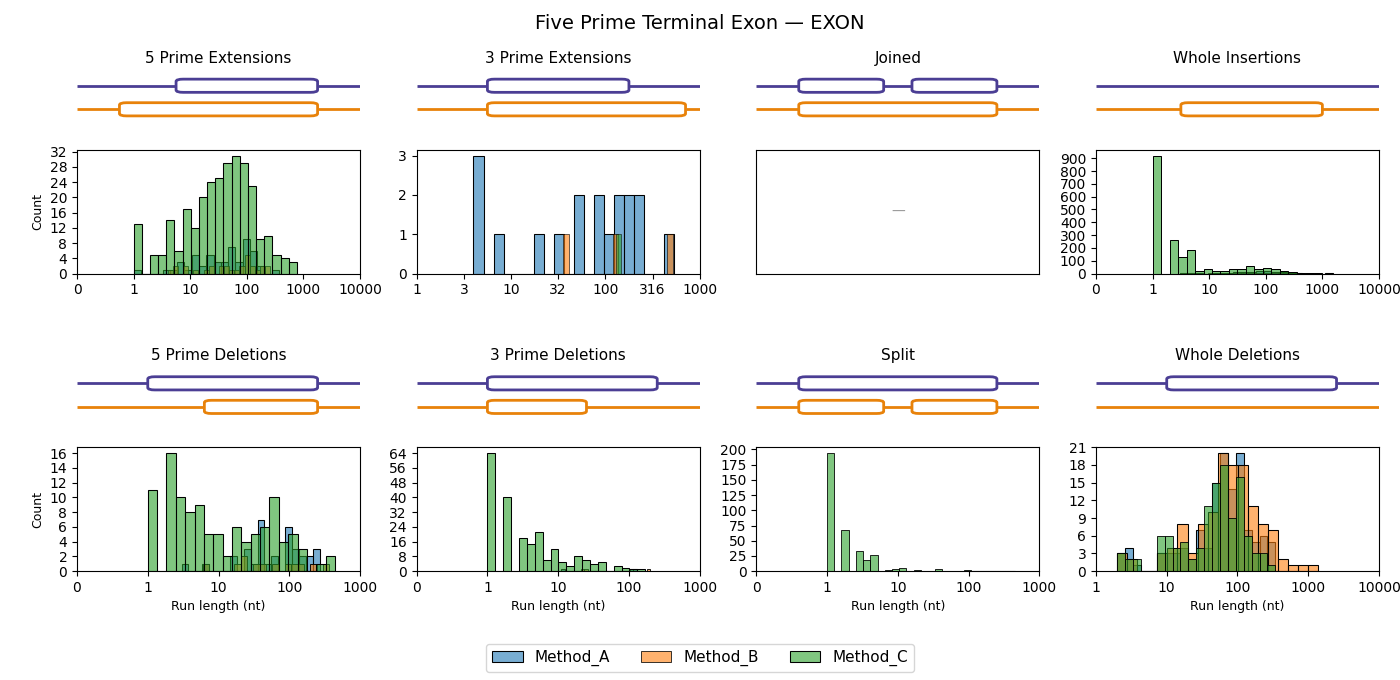
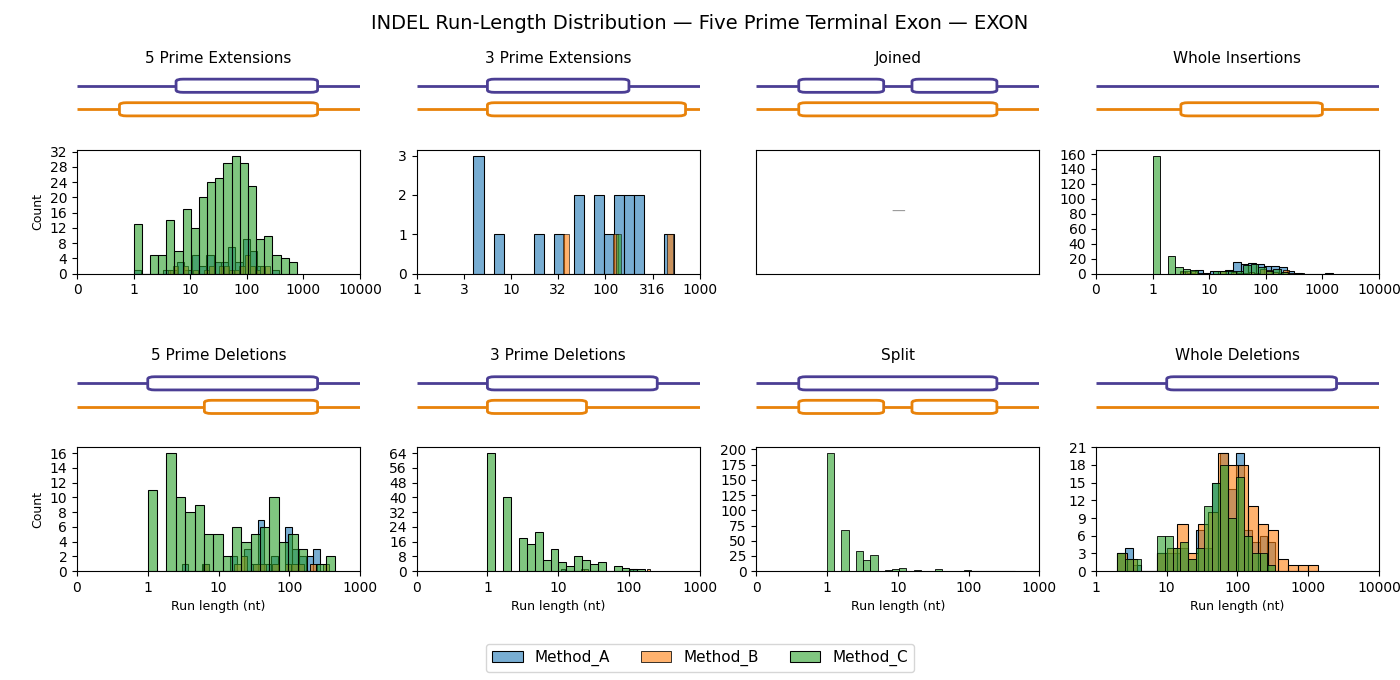
give plotts proper titles

diff --git a/src/dna_segmentation_benchmark/plotting/metrics/indel.py b/src/dna_segmentation_benchmark/plotting/metrics/indel.py
@@ -208,7 +208,8 @@ def plot_stacked_indel_counts_bar(
         )
 
     ax.set_xlim(0, max(max_val * 1.15, 1))
-    ax.set_title(f"INDEL Counts by Method — {class_name}", fontsize=16)
+    title = metadata.display_name if (metadata and metadata.display_name) else "INDEL Counts by Method"
+    ax.set_title(f"{title} — {class_name}", fontsize=16)
     ax.set_xlabel("Total Number of INDELs", fontsize=12)
     ax.set_ylabel("Method Name", fontsize=12)
     ax.legend(title="INDEL Type", loc="lower right", fontsize=9)
@@ -393,7 +394,7 @@ def plot_indel_rates_by_boundary(
         norm=None,
         vmax=vmax,
         cbar_label="Error rate (events ÷ opportunities)",
-        title="INDEL Error Rate by GT Boundary",
+        title=metadata.display_name if (metadata and metadata.display_name) else "INDEL Error Rate by GT Boundary",
         save_path=save_path,
         metadata=metadata,
         exclude_events=_RATE_EXCLUDED_EVENTS,
@@ -436,7 +437,7 @@ def plot_indel_counts_by_boundary(
         annot_fmt=".0f",
         norm=norm,
         cbar_label="Event count (log scale)",
-        title="INDEL Events by GT Boundary",
+        title=metadata.display_name if (metadata and metadata.display_name) else "INDEL Events by GT Boundary",
         save_path=save_path,
         metadata=metadata,
     )
@@ -540,7 +541,11 @@ def plot_individual_error_lengths_histograms(
                 if ax_.get_legend() is not None:
                     ax_.get_legend().remove()
 
-        fig.suptitle(f"{_pretty_boundary(boundary)} — {class_name}", fontsize=14, y=0.98)
+        fig.suptitle(
+            f"INDEL Run-Length Distribution — {_pretty_boundary(boundary)} — {class_name}",
+            fontsize=14,
+            y=0.98,
+        )
         fig.subplots_adjust(
             left=0.055,
             right=0.985,

diff --git a/src/dna_segmentation_benchmark/plotting/metrics/structural.py b/src/dna_segmentation_benchmark/plotting/metrics/structural.py
@@ -214,7 +214,8 @@ def plot_transcript_match_distribution(
         plt.close(fig)
         return None
 
-    ax.set_title(f"{class_name} — Transcript Match Classification")
+    title = metadata.display_name if (metadata and metadata.display_name) else "Transcript Match Classification"
+    ax.set_title(f"{title} — {class_name}")
     ax.set_xlabel("Method")
     ax.set_ylabel("Fraction")
     ax.legend(title="Match Class", loc="center left", fontsize=8)
@@ -287,7 +288,8 @@ def plot_segment_count_delta(
         linewidth=0.5,
     )
     ax.axhline(y=0, color="black", linewidth=0.8, linestyle="-")
-    ax.set_title(f"{class_name} — Segment Count Delta (pred \u2212 GT)")
+    title = metadata.display_name if (metadata and metadata.display_name) else "Segment Count Delta (pred \u2212 GT)"
+    ax.set_title(f"{title} — {class_name}")
     ax.set_xlabel("Method")
     ax.set_ylabel("Mean segment count delta")
     fig.tight_layout()
@@ -541,8 +543,9 @@ def plot_boundary_shift_distribution(
             fontweight="bold" if low else "normal",
         )
 
+    title = metadata.display_name if (metadata and metadata.display_name) else "Boundary Shift Distribution"
     fig.suptitle(
-        f"{class_name} — Boundary Shift Distribution "
+        f"{title} — {class_name} "
         f"(topology-correct transcripts · n={len(df)} shifted boundaries)",
         fontsize=13,
     )
@@ -679,8 +682,9 @@ def plot_per_transcript_exon_recovery(
     axes[2].set_ylabel("Transcripts")
     axes[2].set_title("Per-transcript False Exon Count", pad=10)
 
+    title = metadata.display_name if (metadata and metadata.display_name) else "Per-transcript Exon Recovery"
     fig.suptitle(
-        f"{class_name} — Per-transcript Exon Recovery",
+        f"{title} — {class_name}",
         fontsize=13,
     )
 

diff --git a/src/dna_segmentation_benchmark/plotting/metrics/iou.py b/src/dna_segmentation_benchmark/plotting/metrics/iou.py
@@ -70,7 +70,12 @@ def plot_iou_metrics(
     for container, (_, row) in zip(bar_containers, agg.iterrows()):
         _annotate_bar_with_errorbar(ax1, container.patches[0], row["IoU"], row["sem"])
 
-    ax1.set_title(f"Average IoU Score per Method — {class_name}", fontsize=16)
+    title_avg = (
+        metadata_average.display_name
+        if (metadata_average and metadata_average.display_name)
+        else "Average IoU Score per Method"
+    )
+    ax1.set_title(f"{title_avg} — {class_name}", fontsize=16)
     ax1.set_ylabel("Average Intersection over Union", fontsize=12)
     ax1.set_xlabel("Method Name", fontsize=12)
     ax1.set_ylim(0, 1.05)
@@ -95,8 +100,13 @@ def plot_iou_metrics(
         data=exploded, x="IoU", hue="method_name", ax=ax2, palette="viridis", complementary=True, linewidth=2.5
     )
 
+    title_dist = (
+        metadata_distribution.display_name
+        if (metadata_distribution and metadata_distribution.display_name)
+        else "IoU Score Distribution (Survival Curve)"
+    )
     ax2.set_title(
-        f"IoU Score Distribution (Survival Curve) — {class_name}",
+        f"{title_dist} — {class_name}",
         fontsize=16,
     )
     ax2.set_ylabel("Proportion of Predictions with IoU $\\geq$ X", fontsize=12)

diff --git a/src/dna_segmentation_benchmark/plotting/metrics/ml.py b/src/dna_segmentation_benchmark/plotting/metrics/ml.py
@@ -102,14 +102,16 @@ def plot_ml_metrics_bar(
                 se = stderr_lookup.get((method, metric_name))
                 _annotate_bar_with_errorbar(ax, patch, patch.get_height(), se)
 
-        ax.set_title(f"{level} — {class_name}", fontsize=16)
+        md = metadata_map.get(level)
+        title = md.display_name if (md and md.display_name) else str(level)
+        ax.set_title(f"{title} — {class_name}", fontsize=16)
         ax.set_xlabel("Metric", fontsize=12)
         ax.set_ylabel("Score", fontsize=12)
         ax.set_ylim(0, 1.05)
         ax.legend(title="Method Name", loc="upper right", fontsize=9)
         fig.tight_layout()
 
-        _add_pictogram_panel(fig, metadata_map.get(level), logger=logger)
+        _add_pictogram_panel(fig, md, logger=logger)
 
         if save_path_prefix is not None:
             _save_figure(fig, save_path_prefix.with_name(f"{save_path_prefix.stem}_{level}.png"), logger=logger)

diff --git a/src/dna_segmentation_benchmark/plotting/config.py b/src/dna_segmentation_benchmark/plotting/config.py
@@ -90,8 +90,8 @@ PLOT_METADATA: dict[str, PlotMetadata] = {
         description="Per-method exon-position × event-type heatmap of error rate "
         "(events ÷ opportunities): the cross-method comparable INDEL view. "
         "Anchored slips, splits and whole_deletions divide by the count of GT "
-        "exons of that position type; joined by GT intron count; whole_insertions "
-        "by gene count (terminal exons) or intron count (internal).",
+        "exons of that position type; joined by GT intron count. whole_insertions "
+        "are excluded — a detached false positive has no bounded GT opportunity.",
         caveat="Cells with no opportunity or zero events are masked grey. "
         "Rates normalise out corpus size, so methods on different inputs stay comparable.",
     ),

diff --git a/src/dna_segmentation_benchmark/plotting/metrics/phase_drift.py b/src/dna_segmentation_benchmark/plotting/metrics/phase_drift.py
@@ -58,8 +58,9 @@ def plot_phase_drift_percentage_bar(
         ax.bar_label(container, label_type="edge", padding=2, fmt="%.1f%%", fontsize=6, rotation=90)
 
     ax.set_ylim(0, 115)  # 15% headroom for rotated bar labels (fontsize=6, rotation=90, padding=2)
+    title = metadata.display_name if (metadata and metadata.display_name) else "Coding-Phase Drift Distribution"
     ax.set_title(
-        f"Coding-Phase Drift Distribution — {class_name}",
+        f"{title} — {class_name}",
         fontsize=16,
     )
     ax.set_xlabel("Phase Offset (relative coding-base drift mod 3)", fontsize=12)

diff --git a/src/dna_segmentation_benchmark/plotting/metrics/diagnostic.py b/src/dna_segmentation_benchmark/plotting/metrics/diagnostic.py
@@ -86,7 +86,8 @@ def plot_position_bias(
         ax.set_ylim(bottom=0)
     axes[0].set_ylabel("Mismatch nucleotides (cumulative across sequences)")
     axes[1].legend(title="Method", loc="upper right", fontsize=9)
-    fig.suptitle(f"{class_name} — Nucleotide Mismatch Location (coding span)")
+    title = metadata.display_name if (metadata and metadata.display_name) else "Nucleotide Mismatch Location (coding span)"
+    fig.suptitle(f"{title} — {class_name}")
 
     fig.tight_layout()
     _add_pictogram_panel(fig, metadata, logger)

diff --git a/src/dna_segmentation_benchmark/plotting/metrics/boundary.py b/src/dna_segmentation_benchmark/plotting/metrics/boundary.py
@@ -106,7 +106,8 @@ def plot_boundary_precision_landscapes(
         # Invert y-axis so tolerance 0 is at the bottom
         axes[1].invert_yaxis()
 
-        fig.suptitle(f"{method}", fontsize=14)
+        suptitle = f"{metadata.display_name} — {class_name} ({method})" if (metadata and metadata.display_name) else f"{method}"
+        fig.suptitle(suptitle, fontsize=14)
         plt.tight_layout()
         _add_pictogram_panel(fig, metadata, logger=logger)
         figures.append(fig)
